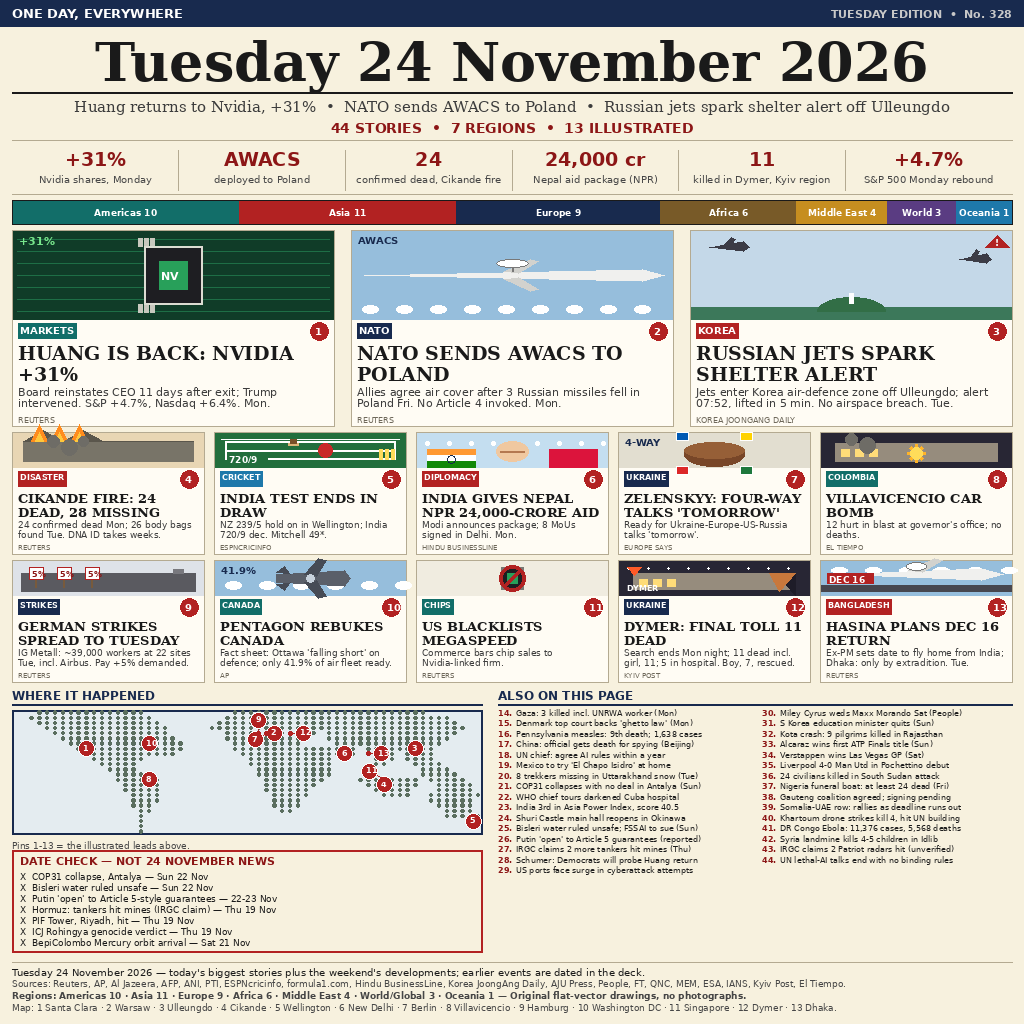
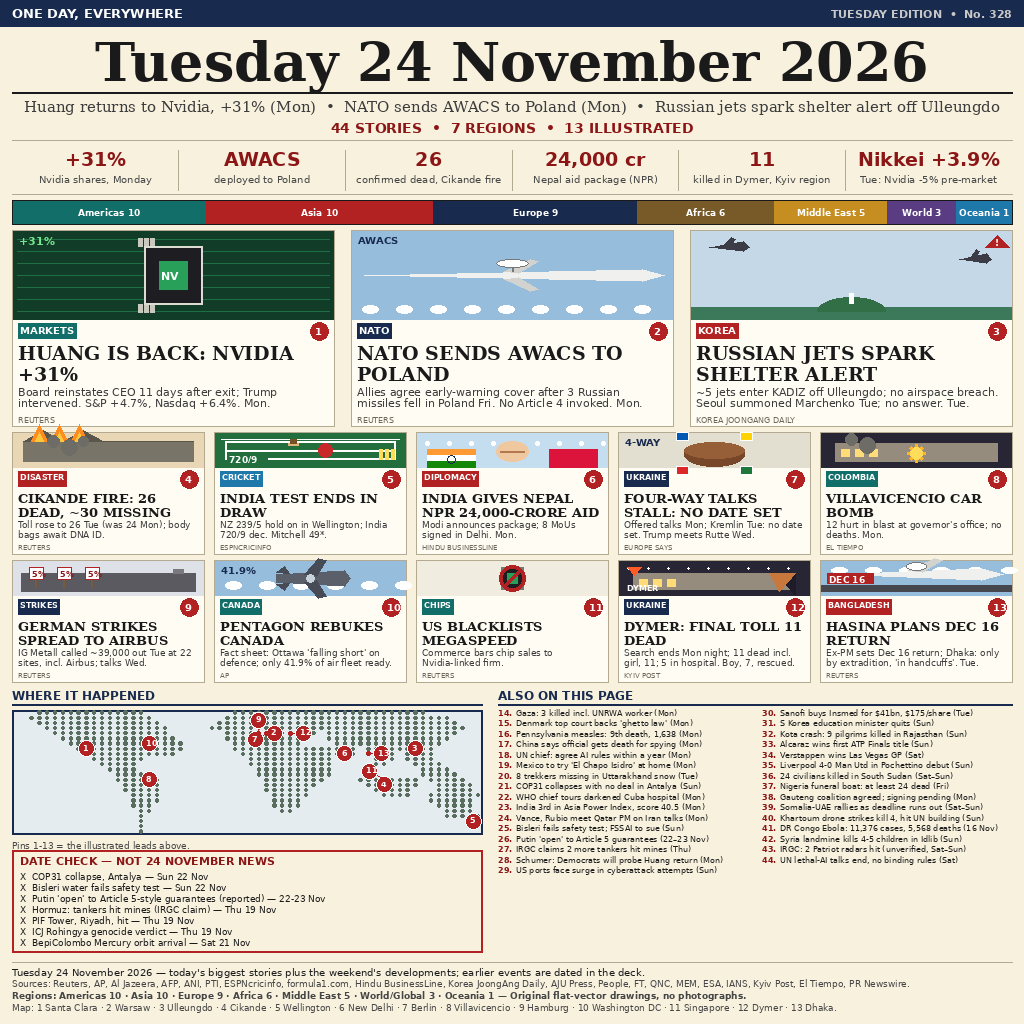
Freeze pass ~20:15 WIB: Red Team F1-F10 + verified Tue updates (Cikande 26, IG Metall called, Marchenko summons, Hasina handcuffs, talks stall, Sanofi $41bn, Vance/Rubio-Qatar); all 31 briefs dated; regions Asia 10 / Middle East 5

diff --git a/stories.py b/stories.py
@@ -2,9 +2,9 @@
 # 44 stories, 7 regions. Every item verified Tue 24 Nov 2026 ~14:45 WIB
 # against a named wire/primary source (see the research note).
 # Rules baked into the decks: Nepal uses NPR 24,000 crore (wires split
-# $1.62bn vs $1.63bn); Cikande "24 confirmed dead, 28 missing" — body
-# bags (26) are NOT deaths; Colombia bomb 12 hurt (later El Tiempo
-# report, not the first 5); Gaza 1,675 dead since the ceasefire, as
+# $1.62bn vs $1.63bn); Cikande FREEZE Tue 24 Nov: toll rose to 26 dead
+# (was 24 Mon), ~30 missing; 26 body bags await DNA ID (Xinhua Tue);
+# Colombia bomb 12 hurt (later El Tiempo report, not the first 5);
 # attributed by the Gaza Health Ministry; NO toll is decked for the
 # El Chapo Isidro arrest shootout (wires split 11 vs 20); Dymer final
 # toll 11 dead, 5 in hospital, search over Mon night; the IRGC Patriot
@@ -26,17 +26,17 @@ LEADS = [
      "Reuters", "chip"),
     (2, "Europe", "Defence", "NATO",
      "NATO SENDS AWACS TO POLAND",
-     "Allies agree air cover after 3 Russian missiles fell in "
+     "Allies agree early-warning cover after 3 Russian missiles fell in "
      "Poland Fri. No Article 4 invoked. Mon.",
      "Reuters", "awacs"),
     (3, "Asia", "Defence", "KOREA",
      "RUSSIAN JETS SPARK SHELTER ALERT",
-     "Jets enter Korea air-defence zone off Ulleungdo; alert 07:52, "
-     "lifted in 5 min. No airspace breach. Tue.",
+     "~5 jets enter KADIZ off Ulleungdo; no airspace breach. Seoul "
+     "summoned Marchenko Tue; no answer. Tue.",
      "Korea JoongAng Daily", "jets"),
     (4, "Asia", "Disasters", "DISASTER",
-     "CIKANDE FIRE: 24 DEAD, 28 MISSING",
-     "24 confirmed dead Mon; 26 body bags found Tue. DNA ID takes weeks.",
+     "CIKANDE FIRE: 26 DEAD, ~30 MISSING",
+     "Toll rose to 26 Tue (was 24 Mon); body bags await DNA ID.",
      "Reuters", "fire"),
     (5, "Oceania", "Sport", "CRICKET",
      "INDIA TEST ENDS IN DRAW",
@@ -47,17 +47,18 @@ LEADS = [
      "Modi announces package; 8 MoUs signed in Delhi. Mon.",
      "Hindu BusinessLine", "flags"),
     (7, "Europe", "War", "UKRAINE",
-     "ZELENSKYY: FOUR-WAY TALKS 'TOMORROW'",
-     "Ready for Ukraine-Europe-US-Russia talks 'tomorrow'.",
+     "FOUR-WAY TALKS STALL: NO DATE SET",
+     "Offered talks Mon; Kremlin Tue: no date set. "
+     "Trump meets Rutte Wed.",
      "Europe Says", "talks"),
     (8, "Americas", "War", "COLOMBIA",
      "VILLAVICENCIO CAR BOMB",
-     "12 hurt in blast at governor's office; no deaths.",
+     "12 hurt in blast at governor's office; no deaths. Mon.",
      "El Tiempo", "blast"),
     (9, "Europe", "Labour", "STRIKES",
-     "GERMAN STRIKES SPREAD TO TUESDAY",
-     "IG Metall: ~39,000 workers at 22 sites Tue, incl. Airbus. "
-     "Pay +5% demanded.",
+     "GERMAN STRIKES SPREAD TO AIRBUS",
+     "IG Metall called ~39,000 out Tue at 22 sites, incl. Airbus; "
+     "talks Wed.",
      "Reuters", "picket"),
     (10, "Americas", "Defence", "CANADA",
      "PENTAGON REBUKES CANADA",
@@ -75,8 +76,8 @@ LEADS = [
      "Kyiv Post", "flats"),
     (13, "Asia", "Politics", "BANGLADESH",
      "HASINA PLANS DEC 16 RETURN",
-     "Ex-PM sets date to fly home from India; Dhaka: only by "
-     "extradition. Tue.",
+     "Ex-PM sets Dec 16 return; Dhaka: only by extradition, "
+     "'in handcuffs'. Tue.",
      "Reuters", "plane"),
 ]
 
@@ -86,35 +87,35 @@ LEADS = [
 BRIEFS = [
     (14, "Middle East", "War", "Gaza: 3 killed incl. UNRWA worker (Mon)"),
     (15, "Europe", "Politics", "Denmark top court backs 'ghetto law' (Mon)"),
-    (16, "Americas", "Health", "Pennsylvania measles: 9th death; 1,638 cases"),
-    (17, "Asia", "Politics", "China: official gets death for spying (Beijing)"),
-    (18, "World/Global", "Tech", "UN chief: agree AI rules within a year"),
-    (19, "Americas", "Politics", "Mexico to try 'El Chapo Isidro' at home"),
+    (16, "Americas", "Health", "Pennsylvania measles: 9th death, 1,638 (Mon)"),
+    (17, "Asia", "Politics", "China says official gets death for spying (Mon)"),
+    (18, "World/Global", "Tech", "UN chief: agree AI rules within a year (Mon)"),
+    (19, "Americas", "Politics", "Mexico to try 'El Chapo Isidro' at home (Mon)"),
     (20, "Asia", "Disasters", "8 trekkers missing in Uttarakhand snow (Tue)"),
     (21, "World/Global", "Climate", "COP31 collapses with no deal in Antalya (Sun)"),
-    (22, "Americas", "Health", "WHO chief tours darkened Cuba hospital"),
-    (23, "Asia", "Economy", "India 3rd in Asia Power Index, score 40.5"),
-    (24, "Asia", "Culture", "Shuri Castle main hall reopens in Okinawa"),
-    (25, "Asia", "Health", "Bisleri water ruled unsafe; FSSAI to sue (Sun)"),
-    (26, "Europe", "Politics", "Putin 'open' to Article 5 guarantees (reported)"),
+    (22, "Americas", "Health", "WHO chief tours darkened Cuba hospital (Mon)"),
+    (23, "Asia", "Economy", "India 3rd in Asia Power Index, score 40.5 (Mon)"),
+    (24, "Middle East", "Politics", "Vance, Rubio meet Qatar PM on Iran talks (Mon)"),
+    (25, "Asia", "Health", "Bisleri fails safety test; FSSAI to sue (Sun)"),
+    (26, "Europe", "Politics", "Putin 'open' to Article 5 guarantees (22–23 Nov)"),
     (27, "Middle East", "War", "IRGC claims 2 more tankers hit mines (Thu)"),
-    (28, "Americas", "Politics", "Schumer: Democrats will probe Huang return"),
-    (29, "Americas", "Tech", "US ports face surge in cyberattack attempts"),
-    (30, "Americas", "Society", "Miley Cyrus weds Maxx Morando Sat (People)"),
+    (28, "Americas", "Politics", "Schumer: Democrats will probe Huang return (Mon)"),
+    (29, "Americas", "Tech", "US ports face surge in cyberattack attempts (Sun)"),
+    (30, "Americas", "Business", "Sanofi buys Insmed for $41bn, $175/share (Tue)"),
     (31, "Asia", "Politics", "S Korea education minister quits (Sun)"),
-    (32, "Asia", "Disasters", "Kota crash: 9 pilgrims killed in Rajasthan"),
+    (32, "Asia", "Disasters", "Kota crash: 9 pilgrims killed in Rajasthan (Sun)"),
     (33, "Europe", "Sport", "Alcaraz wins first ATP Finals title (Sun)"),
     (34, "Europe", "Sport", "Verstappen wins Las Vegas GP (Sat)"),
-    (35, "Europe", "Sport", "Liverpool 4-0 Man Utd in Pochettino debut"),
-    (36, "Africa", "War", "24 civilians killed in South Sudan attack"),
+    (35, "Europe", "Sport", "Liverpool 4-0 Man Utd in Pochettino debut (Sun)"),
+    (36, "Africa", "War", "24 civilians killed in South Sudan (Sat–Sun)"),
     (37, "Africa", "Disasters", "Nigeria funeral boat: at least 24 dead (Fri)"),
-    (38, "Africa", "Politics", "Gauteng coalition agreed; signing pending"),
-    (39, "Africa", "Politics", "Somalia-UAE row: rallies as deadline runs out"),
-    (40, "Africa", "War", "Khartoum drone strikes kill 4, hit UN building"),
-    (41, "Africa", "Health", "DR Congo Ebola: 11,376 cases, 5,568 deaths"),
-    (42, "Middle East", "War", "Syria landmine kills 4-5 children in Idlib"),
-    (43, "Middle East", "War", "IRGC claims 2 Patriot radars hit (unverified)"),
-    (44, "World/Global", "Tech", "UN lethal-AI talks end with no binding rules"),
+    (38, "Africa", "Politics", "Gauteng coalition agreed; signing pending (Mon)"),
+    (39, "Africa", "Politics", "Somalia-UAE rallies as deadline runs out (Sat–Sun)"),
+    (40, "Africa", "War", "Khartoum drone strikes kill 4, hit UN building (Sun)"),
+    (41, "Africa", "Health", "DR Congo Ebola: 11,376 cases, 5,568 deaths (16 Nov)"),
+    (42, "Middle East", "War", "Syria landmine kills 4-5 children in Idlib (Sun)"),
+    (43, "Middle East", "War", "IRGC: 2 Patriot radars hit (unverified, Sat–Sun)"),
+    (44, "World/Global", "Tech", "UN lethal-AI talks end, no binding rules (Sat)"),
 ]
 
 REGION_ORDER = ["Americas", "Asia", "Europe", "Africa", "Middle East",
@@ -125,8 +126,8 @@ REGION_SHORT = {"World/Global": "World"}
 
 DATE_CHECK = [
     ("COP31 collapse, Antalya", "Sun 22 Nov"),
-    ("Bisleri water ruled unsafe", "Sun 22 Nov"),
-    ("Putin 'open' to Article 5-style guarantees", "22-23 Nov"),
+    ("Bisleri water fails safety test", "Sun 22 Nov"),
+    ("Putin 'open' to Article 5-style guarantees (reported)", "22-23 Nov"),
     ("Hormuz: tankers hit mines (IRGC claim)", "Thu 19 Nov"),
     ("PIF Tower, Riyadh, hit", "Thu 19 Nov"),
     ("ICJ Rohingya genocide verdict", "Thu 19 Nov"),
@@ -136,4 +137,4 @@ DATE_CHECK = [
 SOURCES_LINE = ("Sources: Reuters, AP, Al Jazeera, AFP, ANI, PTI, "
                 "ESPNcricinfo, formula1.com, Hindu BusinessLine, Korea "
                 "JoongAng Daily, AJU Press, People, FT, QNC, MEM, ESA, "
-                "IANS, Kyiv Post, El Tiempo.")
+                "IANS, Kyiv Post, El Tiempo, PR Newswire.")

diff --git a/compose.py b/compose.py
@@ -497,8 +497,9 @@ def paint_header(d):
     f = serif_b(54)
     d.text(((W - d.textlength(mast, font=f)) / 2, 30), mast, font=f, fill=INK)
     d.line([MARGIN, 92, W - MARGIN, 92], fill=INK, width=2)
-    sub = ("Huang returns to Nvidia, +31%  \u2022  NATO sends AWACS to Poland  "
-           "\u2022  Russian jets spark shelter alert off Ulleungdo")
+    sub = ("Huang returns to Nvidia, +31% (Mon)  \u2022  NATO sends AWACS "
+           "to Poland (Mon)  \u2022  Russian jets spark shelter alert off "
+           "Ulleungdo")
     f2 = serif(15)
     d.text(((W - d.textlength(sub, font=f2)) / 2, 98), sub, font=f2,
            fill=(60, 60, 60))
@@ -513,10 +514,10 @@ def paint_numbers(d):
     cells = [
         ("+31%", "Nvidia shares, Monday"),
         ("AWACS", "deployed to Poland"),
-        ("24", "confirmed dead, Cikande fire"),
+        ("26", "confirmed dead, Cikande fire"),
         ("24,000 cr", "Nepal aid package (NPR)"),
         ("11", "killed in Dymer, Kyiv region"),
-        ("+4.7%", "S&P 500 Monday rebound"),
+        ("Nikkei +3.9%", "Tue: Nvidia -5% pre-market"),
     ]
     y0, y1 = 146, 194
     cw = CONTENT_W / 6.0
@@ -651,8 +652,8 @@ def paint_footer(d, y):
            font=sans(10), fill=INK)
     d.text((MARGIN, y + 16), SOURCES_LINE, font=sans(9), fill=(70, 70, 70))
     d.text((MARGIN, y + 28),
-           "Regions: Americas 10 \u00b7 Asia 11 \u00b7 Europe 9 \u00b7 Africa 6 \u00b7 "
-           "Middle East 4 \u00b7 World/Global 3 \u00b7 Oceania 1 \u2014 Original "
+           "Regions: Americas 10 \u00b7 Asia 10 \u00b7 Europe 9 \u00b7 Africa 6 \u00b7 "
+           "Middle East 5 \u00b7 World/Global 3 \u00b7 Oceania 1 \u2014 Original "
            "flat-vector drawings, no photographs.",
            font=sans_b(9), fill=(70, 70, 70))
     d.text((MARGIN, y + 40),
